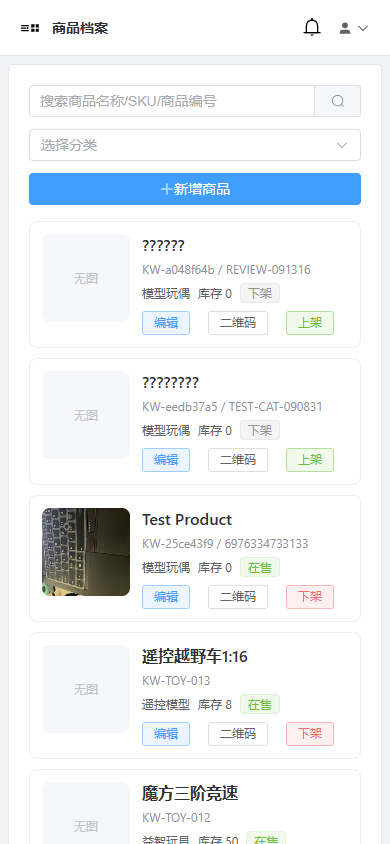
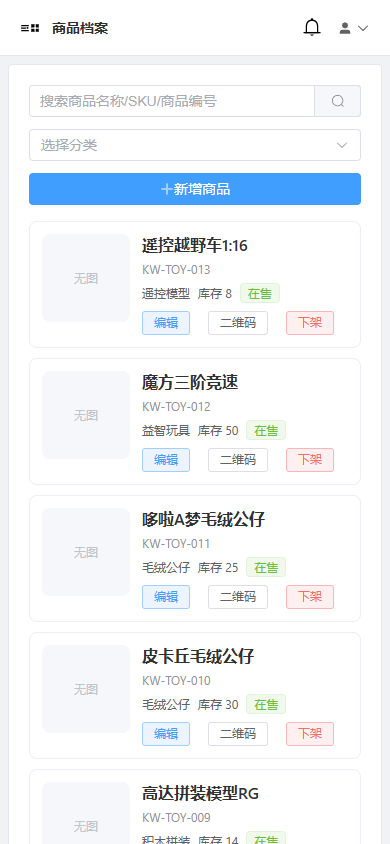
docs: record production release results

diff --git a/docs/release/2026-06-01/TEST_REPORT.md b/docs/release/2026-06-01/TEST_REPORT.md
@@ -1,7 +1,8 @@
 # Test Report - v1.2.0-rc.1
 
 Date: 2026-06-01
-Test URL: https://points-biology-salem-filing.trycloudflare.com
+UAT URL: https://points-biology-salem-filing.trycloudflare.com
+Production URL: http://121.40.110.240
 Local URL: http://127.0.0.1:3000
 
 ## Summary
@@ -16,6 +17,7 @@ Local URL: http://127.0.0.1:3000
 | PC UI smoke | Passed |
 | Mobile UI smoke | Passed |
 | Post-deploy observation | Passed |
+| Production deploy | Passed after hotfix |
 
 ## Commands Executed
 
@@ -95,5 +97,60 @@ Excluded from package:
 
 ## Remaining Production Deployment Blocker
 
-This workstation does not currently have verified production host credentials, CI/CD credentials, DNS control, or a confirmed deployment target. The current test URL is a Cloudflare Tunnel URL backed by this local machine, suitable for UAT and iOS camera testing, but not a permanent production URL.
+Production deployment credentials were provided and the release was deployed to `121.40.110.240`.
 
+## Production Deployment Record
+
+Commit deployed first: `a3b50ec`
+Hotfix deployed: `1790d48`
+Deployment time: 2026-06-01 10:13-10:18 Asia/Shanghai
+Backup directory: `/root/stock-management-backups/20260601-101333`
+
+Actual server topology found during deployment:
+
+- Frontend root: `/var/www/stock-management/web/dist`
+- Backend runtime: `/opt/stock-management/server`
+- PM2 process: `kuwanyubeiqi-server`
+- Nginx `/uploads` alias changed to `/opt/stock-management/server/uploads`
+
+Reason for Nginx upload alias change: PM2 runs the backend from `/opt/stock-management/server`, so product images are written under `/opt/stock-management/server/uploads`. Leaving Nginx pointed at `/var/www/.../uploads` would make uploaded images unavailable through public URLs.
+
+## Production Hotfix
+
+Issue: PM2 initially failed after deployment because `sequelize.sync({ alter: true })` attempted to synchronize the virtual `image_url` field to MySQL and generated invalid SQL:
+
+```sql
+ALTER TABLE `product` CHANGE `image_url` `image_url` VIRTUAL;
+```
+
+Fix: production startup now skips automatic schema alter. Database changes must run through explicit migration scripts.
+
+## Production Verification
+
+| Check | Result |
+| --- | --- |
+| PM2 restart | Passed, 2 cluster instances online |
+| Backend local smoke on server | Passed |
+| Public PC UI smoke | Passed |
+| Public mobile viewport UI smoke | Passed |
+| Product image upload through API | Passed |
+| Uploaded image public `/uploads` access | Passed |
+| Uploaded image deletion | Passed |
+
+Production observation:
+
+| Round | Health ms | Login ms | Categories ms | Category count | Products ms | Product total |
+| --- | ---: | ---: | ---: | ---: | ---: | ---: |
+| 1 | 3154 | 1172 | 1906 | 6 | 1886 | 13 |
+| 2 | 784 | 1162 | 802 | 6 | 787 | 13 |
+| 3 | 829 | 1174 | 799 | 6 | 793 | 13 |
+| 4 | 1278 | 1218 | 810 | 6 | 769 | 13 |
+| 5 | 795 | 1171 | 1852 | 6 | 795 | 13 |
+
+## Remaining Blockers
+
+- Production is still HTTP over IP. iOS real-time camera scanning requires HTTPS, so mobile扫码 must be tested through a HTTPS URL. Current production URL is suitable for PC and mobile layout testing, but not iOS camera permission testing.
+- The local commit `1790d48` has not been pushed to GitHub because `github.com:443` was unreachable from this workstation after deployment. The hotfix is already applied on the production server.
+- `npm audit` still reports vulnerabilities: backend 12, frontend 3.
+- Frontend build warns about large chunks.
+- Some scanner dependencies declare newer Node engine requirements than the server Node 18 runtime, but frontend build completed successfully because those packages are bundled at build time.